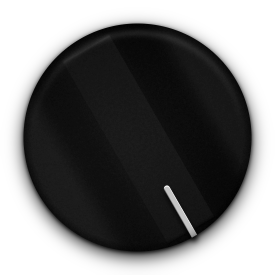
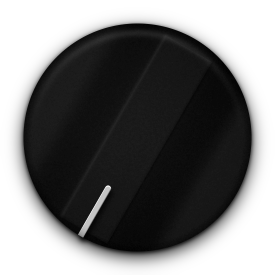
Mode: Half a -90 grados, Whole a -150 (prueba) [skip ci]
Claude-Session: https://claude.ai/code/session_01LmYTuHAKQSU8qhR6nNkVAi

Changed region(s): [[0.5818, 0.6691, 0.7273, 0.9018], [0.2618, 0.6691, 0.4073, 0.9018]]

diff --git a/UI_definitiva/generadores/knobs_gen.py b/UI_definitiva/generadores/knobs_gen.py
@@ -108,7 +108,7 @@ def atlas(name,H,mk,a0=-135,nf=NF):   # un cuadro cada 2 grados desde a0 (Depth 
 if __name__=='__main__':
     two(depth_body,DEPTH_N).save('depth_body.png'); print('depth_body',DEPTH_N//S)
     two(pol_body,POL_N).save('pol_body.png'); print('pol_body',POL_N//S)
-    mode_img(-150).save('mode_half.png'); mode_img(150).save('mode_whole.png')
+    mode_img(-90).save('mode_half.png'); mode_img(-150).save('mode_whole.png')   # Half a -90 (donde iria el 20 % del Fade), Whole a -150
     HD=106; HP=71
     atlas('depth_ptr.png',HD,lambda a:ptr_cell(a,RD*S,0.475*RD*S,0.85*RD*S,0.85*RD*S,col_depth,HD),a0=-150,nf=151)   # Depth: recorrido de 300 grados
     atlas('pol_ptr.png',HP,lambda a:ptr_cell(a,RP*S,(0.40/0.775)*RP*S,1.1*RP*S,RP*S,col_pol,HP),a0=-150,nf=151)   # Fade: recorrido de 300 grados
